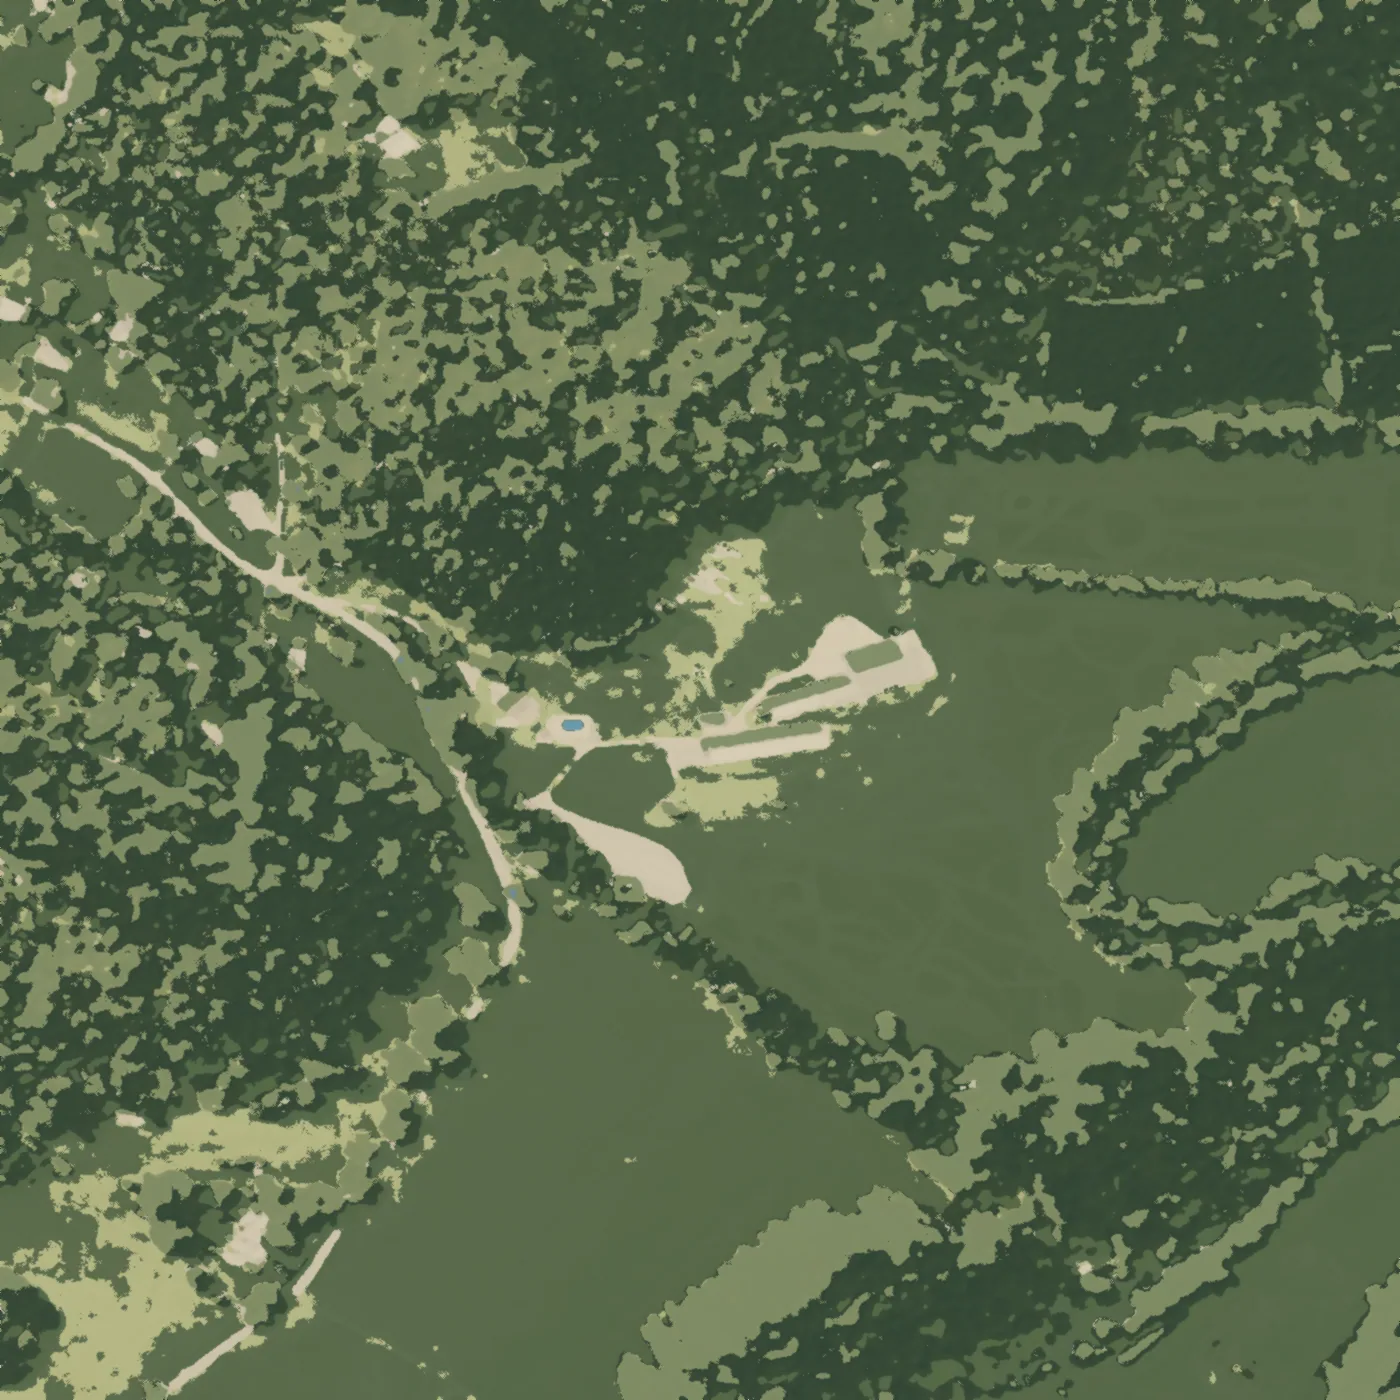
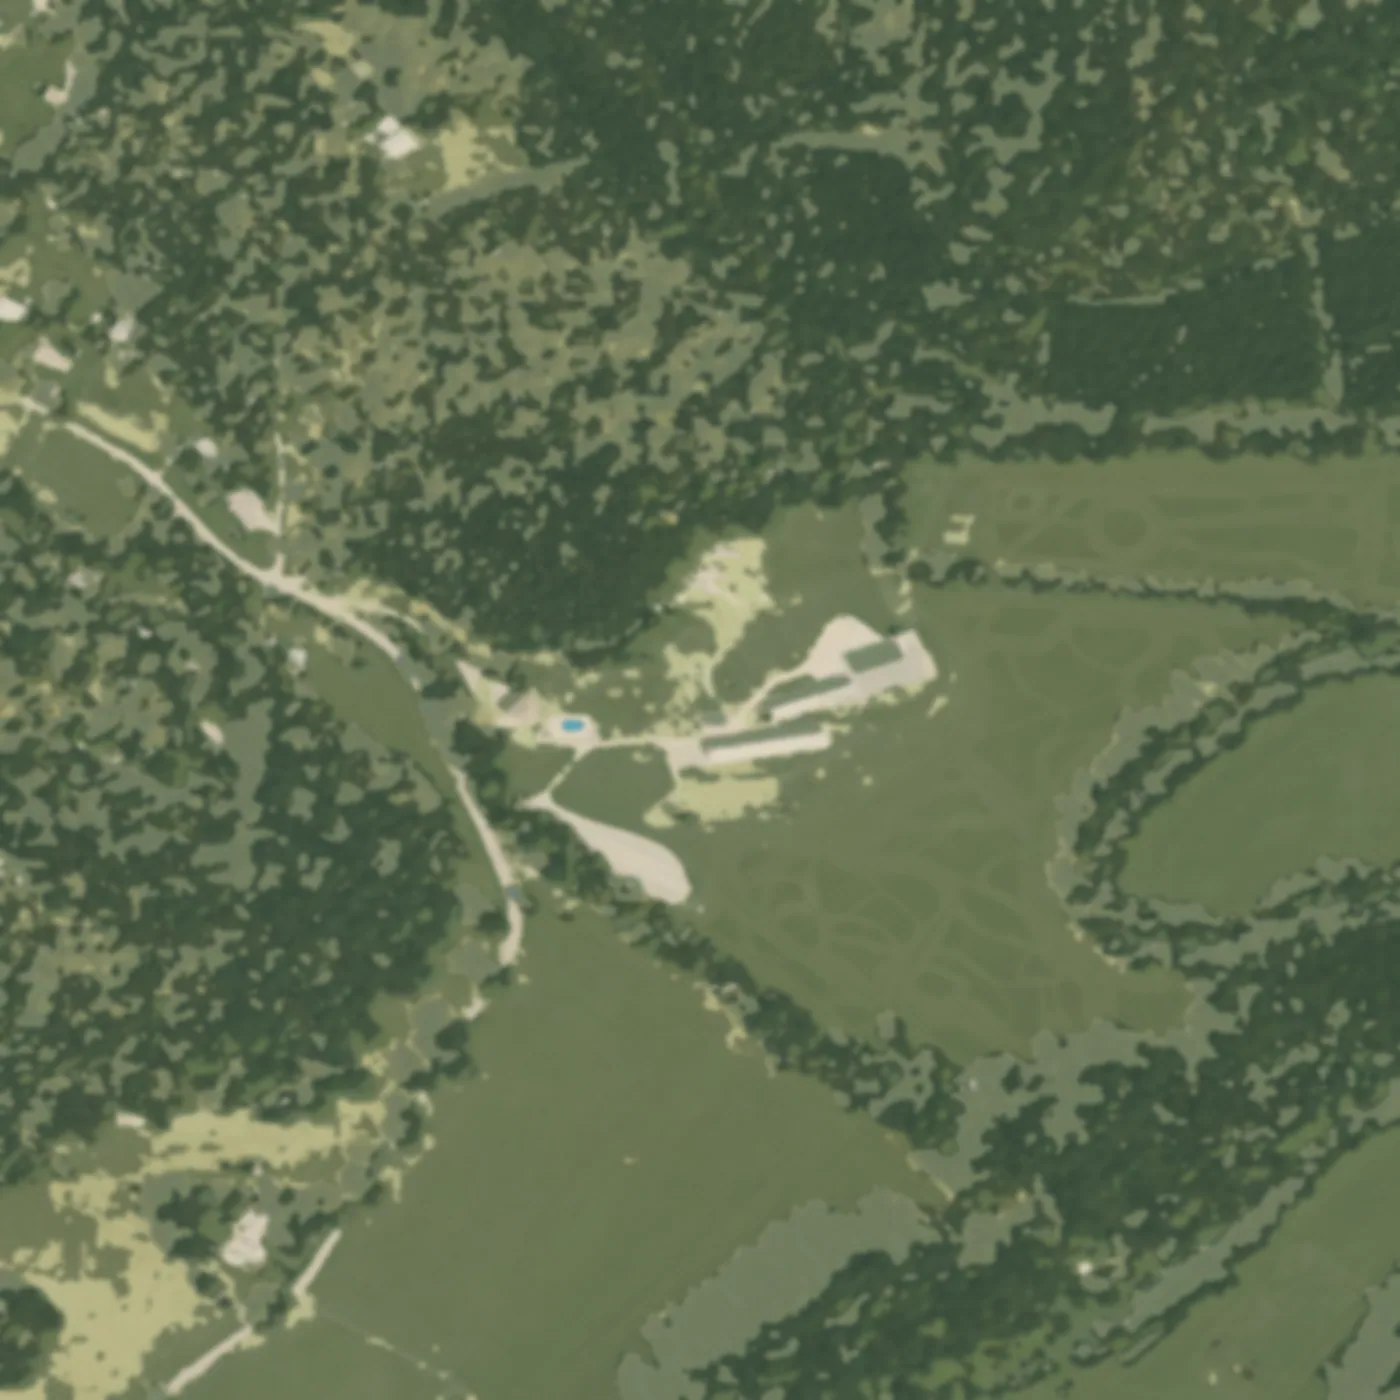
Real venue photographs on the model, and a surface that resolves
The hover cards were showing stock estate photos. They now show the six
places themselves, pulled from thevalleyvenues.com and cropped to a common
560x420 — the model is about this property, so the pictures should be too.

Three things were making the surface look low-resolution, none of them the
imagery:

  - Facets. One flat colour per quad at ~6 m is coarse enough to see. The
    finest mesh fixes it but costs the best part of a second in one go, so it
    is now painted in bands across successive frames over the coarse render.

  - The turn. Auto-rotation redrew every frame at drag quality, wiping the
    sharpening as fast as it was painted. The turn is now an introduction:
    it runs briefly, announces that the model is three-dimensional, then
    stops and hands over. Dragging ends it for good.

  - h(). Callers sample at the centre of a quad, so at the finest step the
    grid index came out fractional, read undefined, and painted the facet
    black. It only surfaced once the sharpening pass ran to completion.

The illustrated skin also carries more of the original tone and its class
boundaries are softened, so it reads as painted rather than posterised.
Distinct colours in the render go from 117 to 268; black facets, 0%.

diff --git a/valleyvenues/concepts/map3d/index.html b/valleyvenues/concepts/map3d/index.html
@@ -169,14 +169,16 @@ footer{padding:2.5rem var(--pad);border-top:1px solid rgba(42,51,38,.16);font-si
   var ctx = cv.getContext('2d');
 
   /* PROVISIONAL — read off the October 2023 aerial, not the owners' plan. */
-  var IMG = '../styles/_img/';
+  /* Photographs are the venue's own, taken from thevalleyvenues.com — so each
+     pin shows the actual room or view rather than a stand-in. */
+  var IMG = 'places/';
   var PLACES = [
-    {u:.727, v:.561, name:'The Valley',       note:'Ceremony · 300 seated', img:IMG+'valley-autumn.webp'},
-    {u:.597, v:.499, name:'Davis Hall',       note:'Reception',             img:IMG+'arch-florals.webp'},
-    {u:.506, v:.415, name:'Overlook Village', note:'Lodging',               img:IMG+'meadow-house.webp'},
-    {u:.398, v:.547, name:'Magnolia House',   note:'1890s manor',           img:IMG+'manor-lawn.webp'},
-    {u:.352, v:.450, name:'Lookout Deck',     note:'Cocktails · sunset',    img:IMG+'deck-ceremony.webp'},
-    {u:.443, v:.596, name:'Arrival',          note:'Parking · the drive',   img:IMG+'vintage-car.webp'}
+    {u:.727, v:.561, name:'The Valley',       note:'Ceremony · up to 300',  img:IMG+'the-valley.webp'},
+    {u:.597, v:.499, name:'Davis Hall',       note:'Reception · seated dining', img:IMG+'davis-hall.webp'},
+    {u:.506, v:.415, name:'Overlook Village', note:'Lodging · stay the weekend', img:IMG+'overlook-village.webp'},
+    {u:.398, v:.547, name:'Magnolia House',   note:'1890s manor',           img:IMG+'magnolia-house.webp'},
+    {u:.352, v:.450, name:'Lookout Deck',     note:'Cocktails · sunset',    img:IMG+'lookout-deck.webp'},
+    {u:.443, v:.596, name:'Arrival',          note:'The drive in',          img:IMG+'arrival.webp'}
   ];
   /* Warm the images so the first hover is never a blank frame. */
   PLACES.forEach(function(p){ var w = new Image(); w.src = p.img; });
@@ -194,11 +196,7 @@ footer{padding:2.5rem var(--pad);border-top:1px solid rgba(42,51,38,.16);font-si
     quality = 3;
     draw();
     clearTimeout(refineTimer);
-    refineTimer = setTimeout(function(){
-      if (dragging) return;
-      quality = 2;
-      draw();
-    }, 90);
+    refineTimer = setTimeout(function(){ if (!dragging) startFine(); }, 60);
   }
 
   function sizeCanvas(){
@@ -233,12 +231,12 @@ footer{padding:2.5rem var(--pad);border-top:1px solid rgba(42,51,38,.16);font-si
   });
   loadImg('aerial.webp', function(im){
     if (im){ TN = im.width; tex = pixels(im); }
-    if (++ready === 3) draw();
+    if (++ready === 3) drawThenRefine();
   });
   loadImg('illustrated.webp', function(im){
     if (im){ TN = im.width; texIll = pixels(im); }
     else if (!tex) { mode = 'lines'; }     /* no imagery at all? use the engraving */
-    if (++ready === 3) draw();
+    if (++ready === 3) drawThenRefine();
   });
 
   function fail(){
@@ -246,7 +244,11 @@ footer{padding:2.5rem var(--pad);border-top:1px solid rgba(42,51,38,.16);font-si
     frame.querySelector('.nojs').style.display = 'block';
   }
 
+  /* Callers sample at half-cell offsets (the centre of a quad), so round to the
+     nearest sample before indexing — a fractional index reads undefined, and the
+     NaN that follows paints the facet black. */
   function h(i, j){
+    i = Math.round(i); j = Math.round(j);
     i = i < 0 ? 0 : (i > N - 1 ? N - 1 : i);
     j = j < 0 ? 0 : (j > N - 1 ? N - 1 : j);
     return hm[j * N + i];
@@ -335,14 +337,23 @@ footer{padding:2.5rem var(--pad);border-top:1px solid rgba(42,51,38,.16);font-si
     }
   }
 
-  function drawSurface(S, cx, cy, zScale, step){
-    drawSkirt(S, cx, cy, zScale, step);
-    var sa = Math.sin(az), ca = Math.cos(az);
-    var iFwd = sa >= 0, jFwd = ca >= 0;
-    var iStart = iFwd ? 0 : N - 1 - step, iEnd = iFwd ? N - 1 - step : 0, iStep = iFwd ? step : -step;
-    var jStart = jFwd ? 0 : N - 1 - step, jEnd = jFwd ? N - 1 - step : 0, jStep = jFwd ? step : -step;
+  /* Row order for the painter's algorithm: each axis walks in whichever
+     direction runs away from the camera, so quads land back to front. */
+  function rowOrder(step){
+    var jFwd = Math.cos(az) >= 0, out = [];
+    if (jFwd){ for (var j = 0; j <= N - 1 - step; j += step) out.push(j); }
+    else     { for (var j2 = N - 1 - step; j2 >= 0; j2 -= step) out.push(j2); }
+    return out;
+  }
 
-    for (var j = jStart; jFwd ? j <= jEnd : j >= jEnd; j += jStep){
+  function drawSurface(S, cx, cy, zScale, step, rows){
+    if (!rows){ drawSkirt(S, cx, cy, zScale, step); rows = rowOrder(step); }
+    var sa = Math.sin(az);
+    var iFwd = sa >= 0;
+    var iStart = iFwd ? 0 : N - 1 - step, iEnd = iFwd ? N - 1 - step : 0, iStep = iFwd ? step : -step;
+
+    for (var ri = 0; ri < rows.length; ri++){
+      var j = rows[ri];
       for (var i = iStart; iFwd ? i <= iEnd : i >= iEnd; i += iStep){
         var x0 = i / (N - 1) - 0.5, x1 = (i + step) / (N - 1) - 0.5;
         var y0 = j / (N - 1) - 0.5, y1 = (j + step) / (N - 1) - 0.5;
@@ -367,6 +378,30 @@ footer{padding:2.5rem var(--pad);border-top:1px solid rgba(42,51,38,.16);font-si
         ctx.stroke();
       }
     }
+  }
+
+  /* ---- progressive sharpening ----
+     The finest mesh is what kills the faceted look, but drawing all of it in
+     one go costs the best part of a second. So it is painted in bands across
+     successive frames, over the top of the coarse render, in the same depth
+     order — the picture simply resolves. Any interaction cancels it. */
+  var fineToken = 0;
+  function startFine(){
+    if (mode === 'lines') return;
+    var token = ++fineToken;
+    var r = frame.getBoundingClientRect();
+    var S = Math.min(r.width, r.height) * 0.95, cx = r.width / 2, cy = r.height * 0.52;
+    var zScale = (RELIEF * VEX) / METRES;
+    var rows = rowOrder(1), at = 0, BAND = 26;
+    (function band(){
+      if (token !== fineToken || dragging || spin) return;
+      var slice = rows.slice(at, at + BAND);
+      if (!slice.length) return;
+      drawSurface(S, cx, cy, zScale, 1, slice);
+      at += BAND;
+      if (at < rows.length) requestAnimationFrame(band);
+      else { if (showCont) drawContours(S, cx, cy, zScale); if (showPins) drawPins(S, cx, cy, zScale); }
+    })();
   }
 
   /* ---- engraved profile lines ---- */
@@ -469,6 +504,7 @@ footer{padding:2.5rem var(--pad);border-top:1px solid rgba(42,51,38,.16);font-si
   /* ---- interaction ---- */
   frame.addEventListener('pointerdown', function(e){
     dragging = true; idle = 0;
+    if (spin){ spin = false; press('bSpin', false); }
     frame.classList.add('dragging');
     document.getElementById('grab').classList.add('gone');
     lastX = e.clientX; lastY = e.clientY;
@@ -514,6 +550,7 @@ footer{padding:2.5rem var(--pad);border-top:1px solid rgba(42,51,38,.16);font-si
   frame.addEventListener('pointermove', function(e){
     if (!dragging){ hoverAt(e.clientX, e.clientY); return; }
     hideCard();
+    fineToken++;                      /* abandon any refinement in progress */
     az   += (e.clientX - lastX) * 0.008;
     tilt += (e.clientY - lastY) * 0.004;
     tilt = Math.max(0.2, Math.min(1.2, tilt));
@@ -544,12 +581,21 @@ footer{padding:2.5rem var(--pad);border-top:1px solid rgba(42,51,38,.16);font-si
   });
   document.getElementById('bSpin').addEventListener('click', function(){
     spin = !spin; press('bSpin', spin);
+    if (spin){ spun = 0; idle = 46; fineToken++; }   /* abandon any refinement */
+    else drawThenRefine();
   });
 
+  /* The turn is an introduction, not a state. It runs briefly so the model
+     announces itself as three-dimensional, then stops and hands over to the
+     sharpening pass — which it would otherwise overwrite every frame. */
+  var spun = 0;
   (function tick(){
     if (spin && !dragging && !rm && hm){
       idle++;
-      if (idle > 45){ az += 0.0014; draw(); }
+      if (idle > 45){
+        az += 0.0016; draw(); spun++;
+        if (spun > 300){ spin = false; press('bSpin', false); drawThenRefine(); }
+      }
     }
     requestAnimationFrame(tick);
   })();

diff --git a/valleyvenues/concepts/map3d/make_illustrated.py b/valleyvenues/concepts/map3d/make_illustrated.py
@@ -53,14 +53,18 @@ for y in range(H):
         else:
             c = GRASS_L if lum > 0.5 else GRASS_D
 
-        # keep a little of the original modulation so it isn't posterised flat
-        k = 0.16
+        # Keep a good deal of the original modulation. Flat posterised classes
+        # are what read as "pixelated" once they are chopped into facets — the
+        # eye needs tone inside each class, not six solid colours.
+        k = 0.34
         op[x, y] = (
             int(c[0] * (1 - k) + r * k),
             int(c[1] * (1 - k) + g * k),
             int(c[2] * (1 - k) + b * k),
         )
 
-out = out.filter(ImageFilter.SMOOTH)
+# Soften the class boundaries so they read as painted edges rather than jaggies.
+out = out.filter(ImageFilter.GaussianBlur(radius=2.2))
+out = out.filter(ImageFilter.SMOOTH_MORE)
 out.save(os.path.join(HERE, "illustrated.webp"), quality=82, method=5)
 print("illustrated.webp %dx%d  %d KB" % (W, H, os.path.getsize(os.path.join(HERE, "illustrated.webp")) // 1024))
